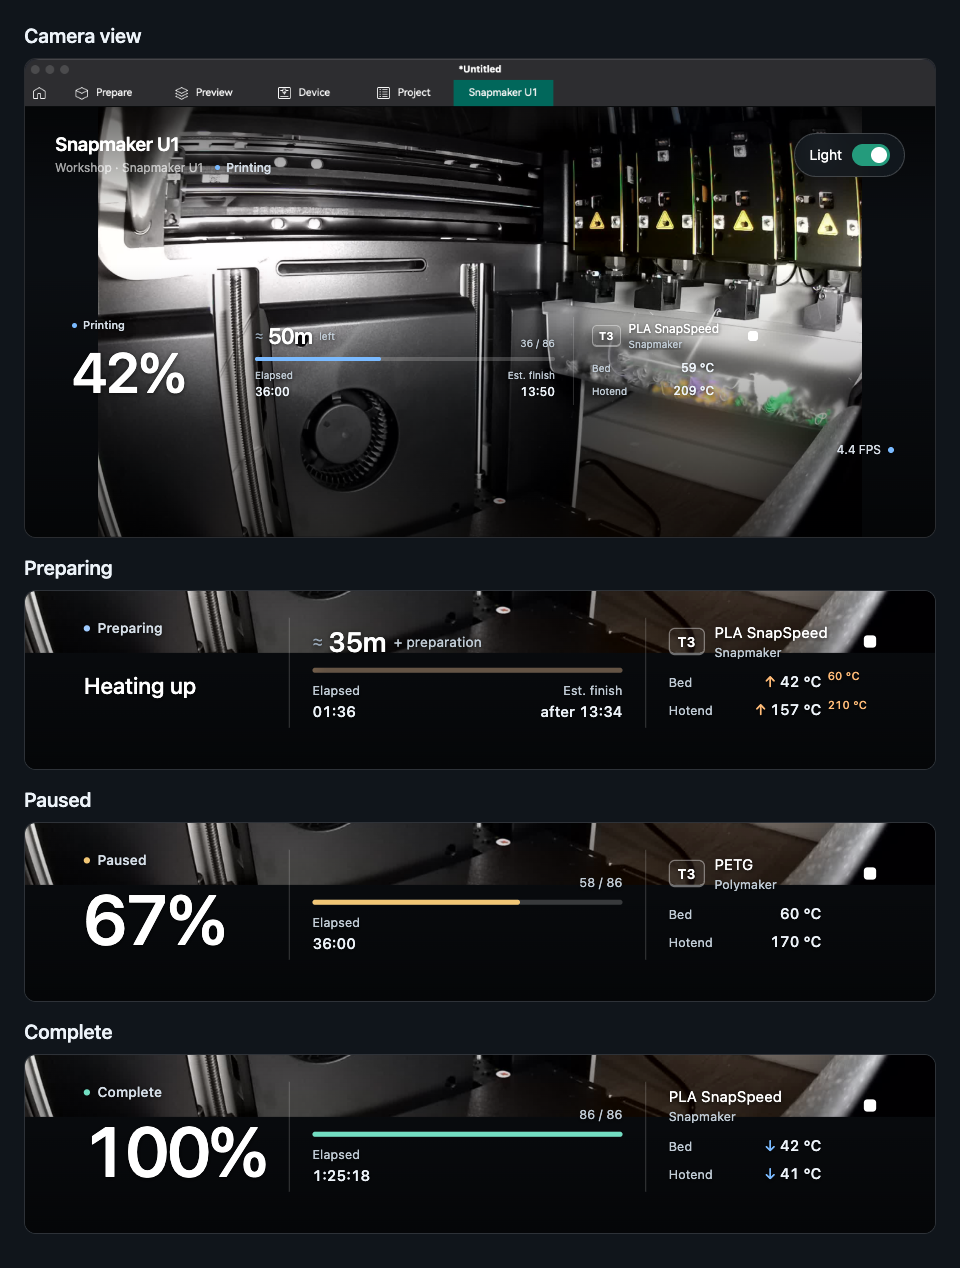
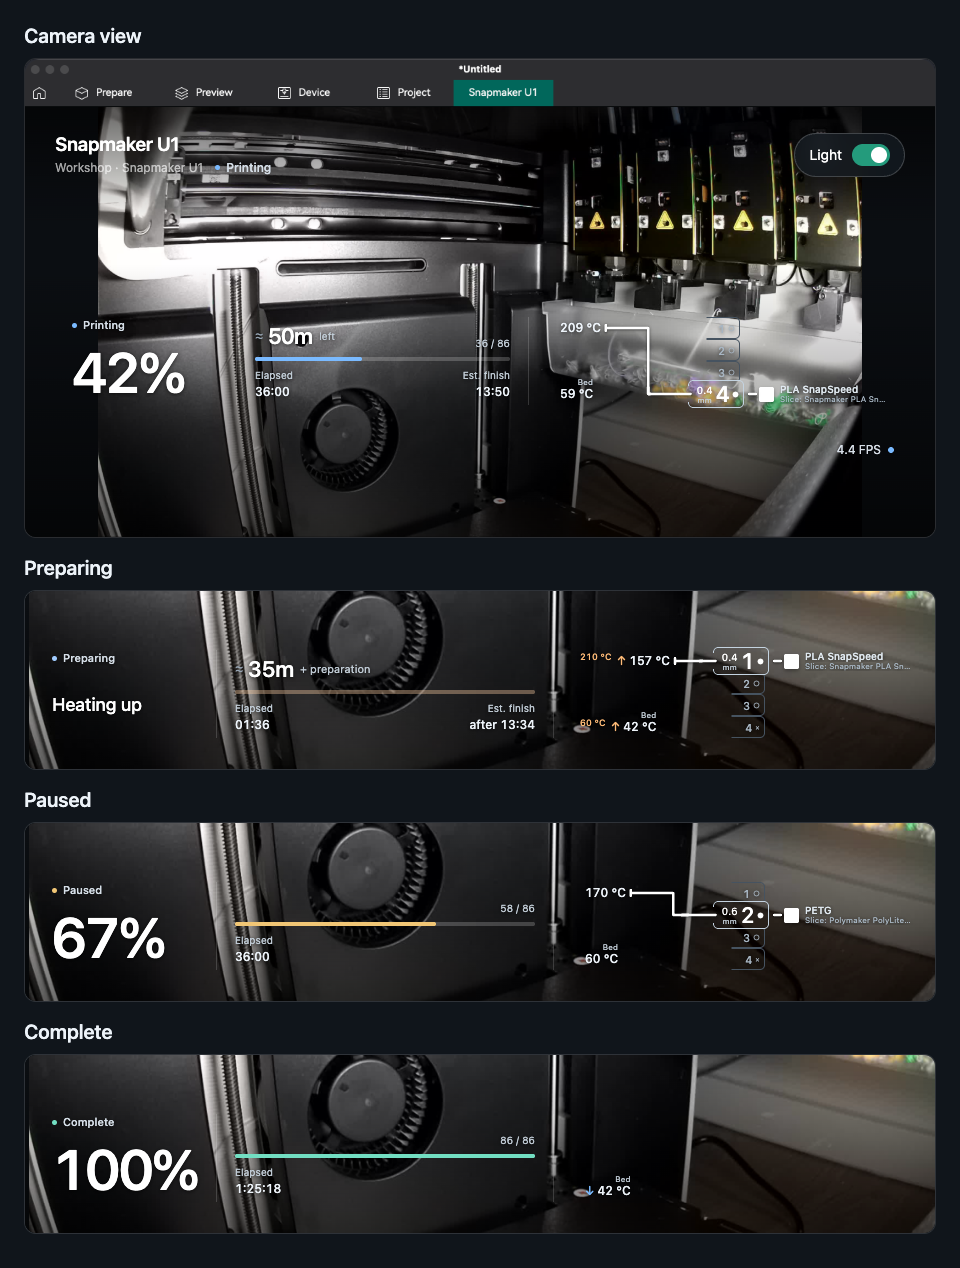
docs: refresh toolhead screenshots and usage guide

diff --git a/scripts/prepare_screenshots.py b/scripts/prepare_screenshots.py
@@ -322,7 +322,7 @@ h2 { margin:0; font-size:20px; line-height:24px; font-weight:550; }
 iframe { display:block; border:0; background:#0b0e12; }
 .hero iframe { width:100%; height:480px; border:1px solid #ffffff20; border-radius:12px; }
 .crop { position:relative; height:180px; overflow:hidden; border:1px solid #ffffff20; border-radius:12px; }
-.crop iframe { position:absolute; width:80%; height:650px; left:0; bottom:-10px; transform:scale(1.25); transform-origin:bottom left; }
+.crop iframe { position:absolute; width:1100px; height:650px; left:-20px; bottom:-10px; }
 @media(max-width:650px) { body { padding:16px; } .crop { height:420px; } }
 </style></head><body><section class="hero"><h2>Camera view</h2><iframe title="Simulated Orca camera tab" src="printing.html"></iframe></section>''' + tiles + '</body></html>')
     return entry

diff --git a/README.md b/README.md
@@ -6,7 +6,7 @@
 
 A dedicated Snapmaker U1 tab with a full-viewport camera, printer status, and a chamber light toggle.
 
-![Snapmaker U1 camera tab in Printing, with enlarged Preparing, Paused, and Complete statistics](docs/images/snapmaker-u1-states.png)
+![Snapmaker U1 camera tab in Printing, with Preparing, Paused, and Complete statistics](docs/images/snapmaker-u1-states.png)
 
 *Simulated Orca views with fixed sample data.*
 
@@ -47,8 +47,12 @@ Elapsed time uses a stopwatch format with seconds from the latest printer update
 Supported OrcaSlicer jobs show approximate time left and finish time once model printing is confirmed at normal speed.
 When the inputs cannot support a finish estimate, the original plan remains visible without a finish forecast.
 
-The material label shows the active toolhead's material, subtype, and brand when the printer reports them.
-Hover over or focus the material to see its slicer filament profile when the file metadata can be mapped to that toolhead.
+During a print, four index tabs show toolheads 1–4, with the connected head linked to its temperature by a filament-colored path.
+Hover over or focus the statistics block to reveal the other heads' reported materials and colors.
+Hover over, focus, or tap the active tab to see its slicing profile and layer height when file metadata provides them.
+The tooltip stays above the statistics block and its text can be selected.
+Tabs are hidden in Standby and Complete, and all hardware details are hidden while printer status is unavailable.
+The bed temperature remains visible when the printer reports it.
 
 Leaving the tab stops playback.
 Returning shows the play overlay.

diff --git a/docs/development.md b/docs/development.md
@@ -124,5 +124,5 @@ Build first with `mise run build` when calling `prepare_screenshots.py` directly
 The screenshot tool loads the compiled production UI with an offline Orca bridge.
 
 PNG export uses an installed Chrome or Chromium with an isolated temporary profile.
-The generated `dist/screenshots/showcase.html` shows Printing in one full camera view, followed by enlarged Preparing, Paused, and Complete strips.
+The generated `dist/screenshots/showcase.html` shows Printing in one full camera view, followed by desktop Preparing, Paused, and Complete statistics strips.
 This keeps the tab visible while making the statistics readable at README width.
